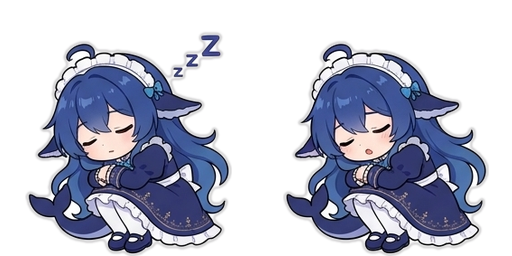
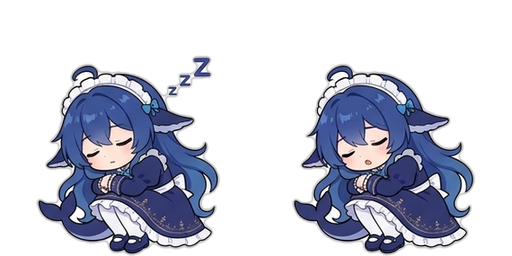
fix(assets): 手感微调——joy 缩短至 2s、play 放慢至 5fps、walk 删冗余第 4 帧、sleep 缩小 10%
- joy：JOY_MS 3000→2000（互动余韵 5 次摆动，不再拖沓）
- play：fps 8→5（抛接 600ms/圈，不再急促）
- walk：删与第 1 帧姿态重复的收尾第 4 帧 → 3 帧（帧速率不变，仅去冗余）
- sleep：内容缩放 0.9（覆盖率 46.8%→37%，与其他 sheet 一致，蜷缩球体不再显大）
- spec 同步 walk 帧数/play fps；client-logic 测试更新 JOY_MS 断言

diff --git a/client.js b/client.js
@@ -1,7 +1,7 @@
 (() => {
   // client/logic.mjs
   var TRANSIENT_MS = 1500;
-  var JOY_MS = 3e3;
+  var JOY_MS = 2e3;
   var EMOJI = {
     idle: "\u{1F423}",
     working: "\u{1F914}",

diff --git a/docs/sprites-spec.md b/docs/sprites-spec.md
@@ -31,7 +31,7 @@
 | `eat` | 3 | 双手捧食物啃咬：咬下—咀嚼—咽下，腮帮鼓起 |
 | `play` | 3 | 抛接小球：抛出—腾空—接住，身体蹦跳 |
 | `drag` | 1 | 被斜向拉扯：单帧身体倾斜双手乱摆（拖拽态由 `tilt` 运动配方持续摇摆） |
-| `walk` | 4 | **侧面行走**：左到右依次为迈步循环（抬左腿—落脚—抬右腿—落脚），身体微微起伏 |
+| `walk` | 3 | **侧面行走**：左到右依次为迈步循环（抬左腿—落脚—抬右腿），身体微微起伏 |
 | `sleep` | 2 | 蜷缩闭眼睡觉：身体随呼吸起伏两态，头顶 Zzz |
 | `wake` | 2 | 伸懒腰：第 1 帧闭眼张嘴打哈欠、第 2 帧揉眼睛睁开 |
 | `welcome` | 2 | 举手挥手打招呼：两帧为挥手上下摆动，周围小星星 |
@@ -51,7 +51,7 @@
 | `eat` | 点击投喂（瞬发） | 3 | — | ✓ | 啃咬循环 |
 | `play` | 点击玩耍（瞬发） | 3 | — | ✓ | 抛接球循环 |
 | `drag` | 拖拽中 | 1 | `tilt` | ✓ | 被斜向拉扯 |
-| `walk` | 周期性游走 | 4 | — | ✓ | 侧面行走 |
+| `walk` | 周期性游走 | 3 | — | ✓ | 侧面行走 |
 | `sleep` | 空闲 ≥60s | 2 | — | ✓ | 蜷睡 |
 | `wake` | 睡醒过渡（瞬发） | 2 | — | ✗ | 伸懒腰 |
 | `welcome` | 新会话（burst） | 2 | — | ✓ | 挥手打招呼 |
@@ -70,9 +70,9 @@
     "disappointed": { "sheet": "disappointed.png", "frames": 2, "fps": 2,  "loop": true },
     "joy":          { "sheet": "joy.png",          "frames": 2, "fps": 5,  "loop": true },
     "eat":          { "sheet": "eat.png",          "frames": 3, "fps": 8,  "loop": true },
-    "play":         { "sheet": "play.png",         "frames": 3, "fps": 8,  "loop": true },
+    "play":         { "sheet": "play.png",         "frames": 3, "fps": 5,  "loop": true },
     "drag":         { "sheet": "drag.png",         "frames": 1, "fps": 5,  "loop": true,  "motion": "tilt" },
-    "walk":         { "sheet": "walk.png",         "frames": 4, "fps": 6,  "loop": true },
+    "walk":         { "sheet": "walk.png",         "frames": 3, "fps": 6,  "loop": true },
     "sleep":        { "sheet": "sleep.png",        "frames": 2, "fps": 1,  "loop": true },
     "wake":         { "sheet": "wake.png",         "frames": 2, "fps": 3,  "loop": false },
     "welcome":      { "sheet": "welcome.png",      "frames": 2, "fps": 3,  "loop": true }
